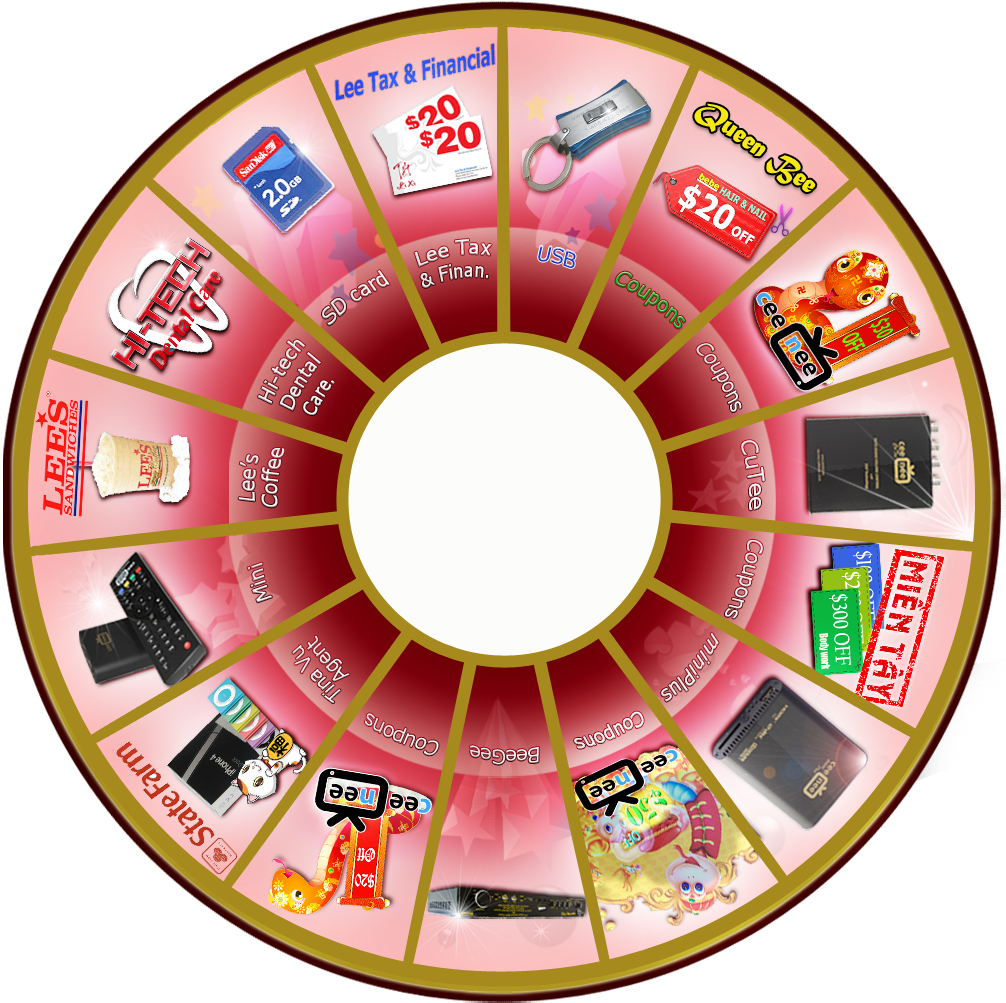
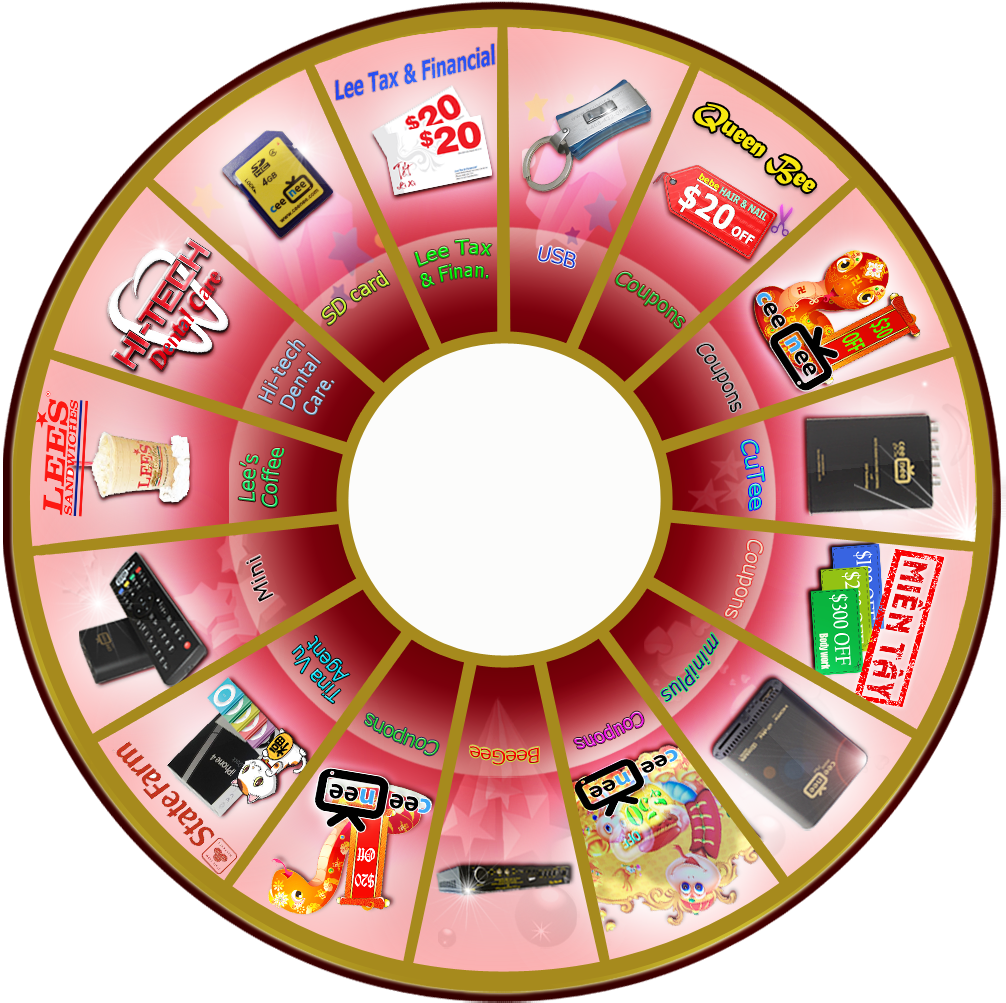
Changed UI

diff --git a/scripts/app.js b/scripts/app.js
@@ -11,7 +11,7 @@ define(['jquery', 'underscore', 'backbone', 'buzz', 'localStorage',  'transform'
     
     var rotatingResult
 
-    var definedSlot = 13
+    var definedSlot = 13    //Slot 13 is Coupon $30
 
     var Roulette = function () {
         this.constant = 100 - ((Math.pow(100, 4) / 4 - 1 / 4) / (Math.pow(100, 3)) - 3 * (Math.pow(100, 3) / 3 - 1 / 3) / (Math.pow(100, 2)) + 3 * (Math.pow(100, 2) / 2 - 1 / 2) / (100))
@@ -23,11 +23,11 @@ define(['jquery', 'underscore', 'backbone', 'buzz', 'localStorage',  'transform'
             "#A248D6", "#304890", "#A5CFDD", "#C92F81"]
 
         this.awards = this._awards = [
-            {pt: 0, sku: 'ceenee_usb', name:"USB",chance:50,amount:50, src: 'usb.png', w: 10}, 
+            {pt: 0, sku: 'ceenee_usb', name:"2GB CeenNee USB",chance:50,amount:50, src: 'miniplus.jpg', w: 10}, 
             {pt: 1, sku: 'queen_hair_nail', name:"Queen's Hair",chance:10,amount:3, src: '1queen.png', w: 90},
-            {pt: 2, sku: 'ceenee_30', name:"CeeNee $30 Coupon",chance:30,amount:200, src: 'ceenee_30.png',w: 30},
+            {pt: 2, sku: 'ceenee_30', name:"CeeNee $30 Coupon",chance:30,amount:200, src: 'miniplus.jpg',w: 30},
             {pt: 3, sku: 'ceenee_cutee', name:"CuTee",chance:4,amount:2, src: 'cutee.jpg', w: 40},
-            {pt: 4, sku: 'mt_coupon', name:"MienTay Coupon",chance:10,amount:3, src: 'mientay.png',w: 50
+            {pt: 4, sku: 'mt_coupon', name:"MienTay Auto Repair Coupon",chance:10,amount:3, src: 'mientay.png',w: 50
               ,inner_gift: [
                 {amount: 1, name: '$100 off coupon'}, 
                 {amount: 2, name: '$200 off coupon'}, 
@@ -35,26 +35,26 @@ define(['jquery', 'underscore', 'backbone', 'buzz', 'localStorage',  'transform'
               ]
             },
             {pt: 5, sku: 'ceenee_miniplus', name:"miniPlus",chance:0,amount:0,src: 'miniplus.jpg', w: 60},
-            {pt: 6, sku: 'ceenee_50', name:"CeeNee $50 Coupon",chance:15,amount: 40, src: 'ceenee_50.png',w: 70},
+            {pt: 6, sku: 'ceenee_50', name:"CeeNee $50 Coupon",chance:15,amount: 40, src: 'beegee.jpg',w: 70},
             {pt: 7, sku: 'ceenee_beegee', name:"BeeGee",chance:0,amount:0, src: 'beegee.jpg', w: 80},
-            {pt: 8, sku: 'ceenee_20', name:"CeeNee $20 Coupon",chance:30,amount:120, src: 'ceenee_20.png',w: 20},
-            {pt: 9, sku: 'statefarm', name:"Tina Vu StateFarm's Prize",chance:10,amount:4, src: 'tinavu.png',w: 100
+            {pt: 8, sku: 'ceenee_20', name:"CeeNee $20 Coupon",chance:30,amount:120, src: 'mini.jpg',w: 20},
+            {pt: 9, sku: 'statefarm', name:"Tina Vu StateFarm's Prize",chance:10,amount:3, src: 'tinavu.png',w: 100
              ,inner_gift: [
                 {amount: 1, name: 'iPod Shuffle'}, 
                 {amount: 1, name: 'Lucky Japanese Cat'}, 
-                {amount: 1, name: ' iPhone 4 Docking Station'}
+                {amount: 1, name: 'iPhone 4 Docking Station'}
               ] 
             },
             {pt: 10, sku: 'ceenee_mini', name:"mini",chance:2,amount:2, src: 'mini.jpg',w: 110},
-            {pt: 11, sku: 'lee_coffee', name:"Coffee from Lee Sandwiches",chance:50,amount:155, src: 'lee_coffee.png', w: 120},            
+            {pt: 11, sku: 'lee_coffee', name:"Coffee from Lee Sandwiches",chance:50,amount:155, src: 'leesandwiches.jpg', w: 120},            
             {pt: 12, sku: 'hightech_dental', name:"High Tech Dental Coupon!!", chance:10, amount:10, src: 'htcare.png', w:0},
-            {pt: 13, sku: 'ceenee_sd', name:"SD",chance:44,amount:50, src: 'sd.png', w: 10},
+            {pt: 13, sku: 'ceenee_sd', name:"4G CeeNee SD card",chance:44,amount:50, src: 'beegee.jpg', w: 10},
             {pt: 14, sku: 'lee_financial', name: "Lee Tax &amp; Financial Coupon", chance:10,amount:56, src:'lee_financial.png', w:0}
         ]
 
         this.extraChance = [2.5, 2.5, 20]   //SD , USB , Lee 
         
-        this.drawInterval = 30; //redraw each this amount of ms 
+        this.drawInterval = 100; //redraw each this amount of ms 
         this.startAngle = 0;
         this.totalAngle = 0;
         this.arc = 2*Math.PI / 15; 

diff --git a/assets/css/style.css b/assets/css/style.css
@@ -1,6 +1,6 @@
 body {
   padding-top: 40px;
-  background: url("../img/p/shattered.png") repeat top right;
+  background: url("../img/p/happynewyear.png") repeat top right;
 }
 #wheel {
   background: url("../img/wheel.png") no-repeat;
